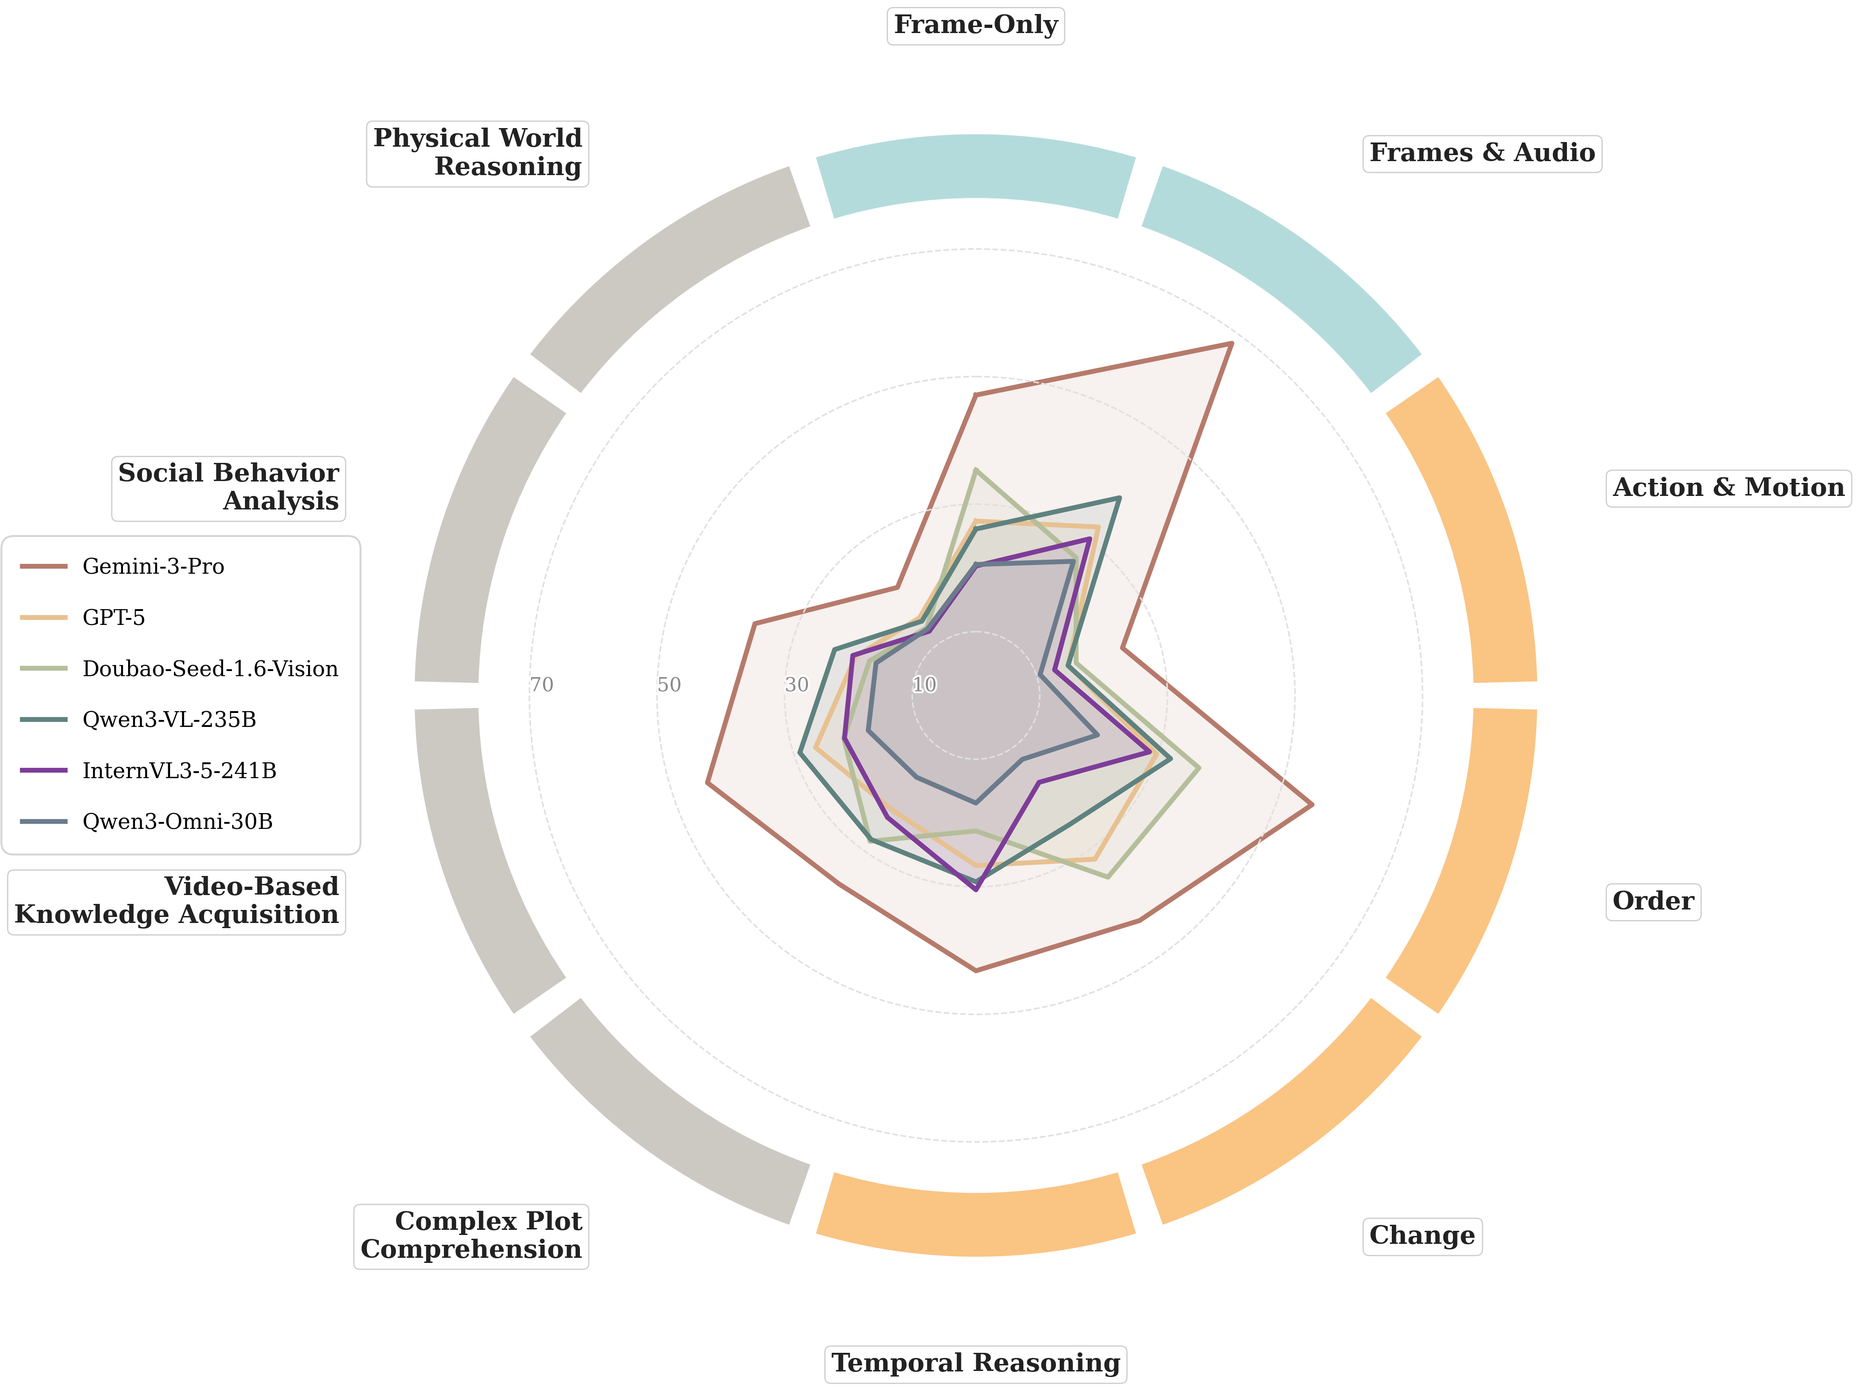
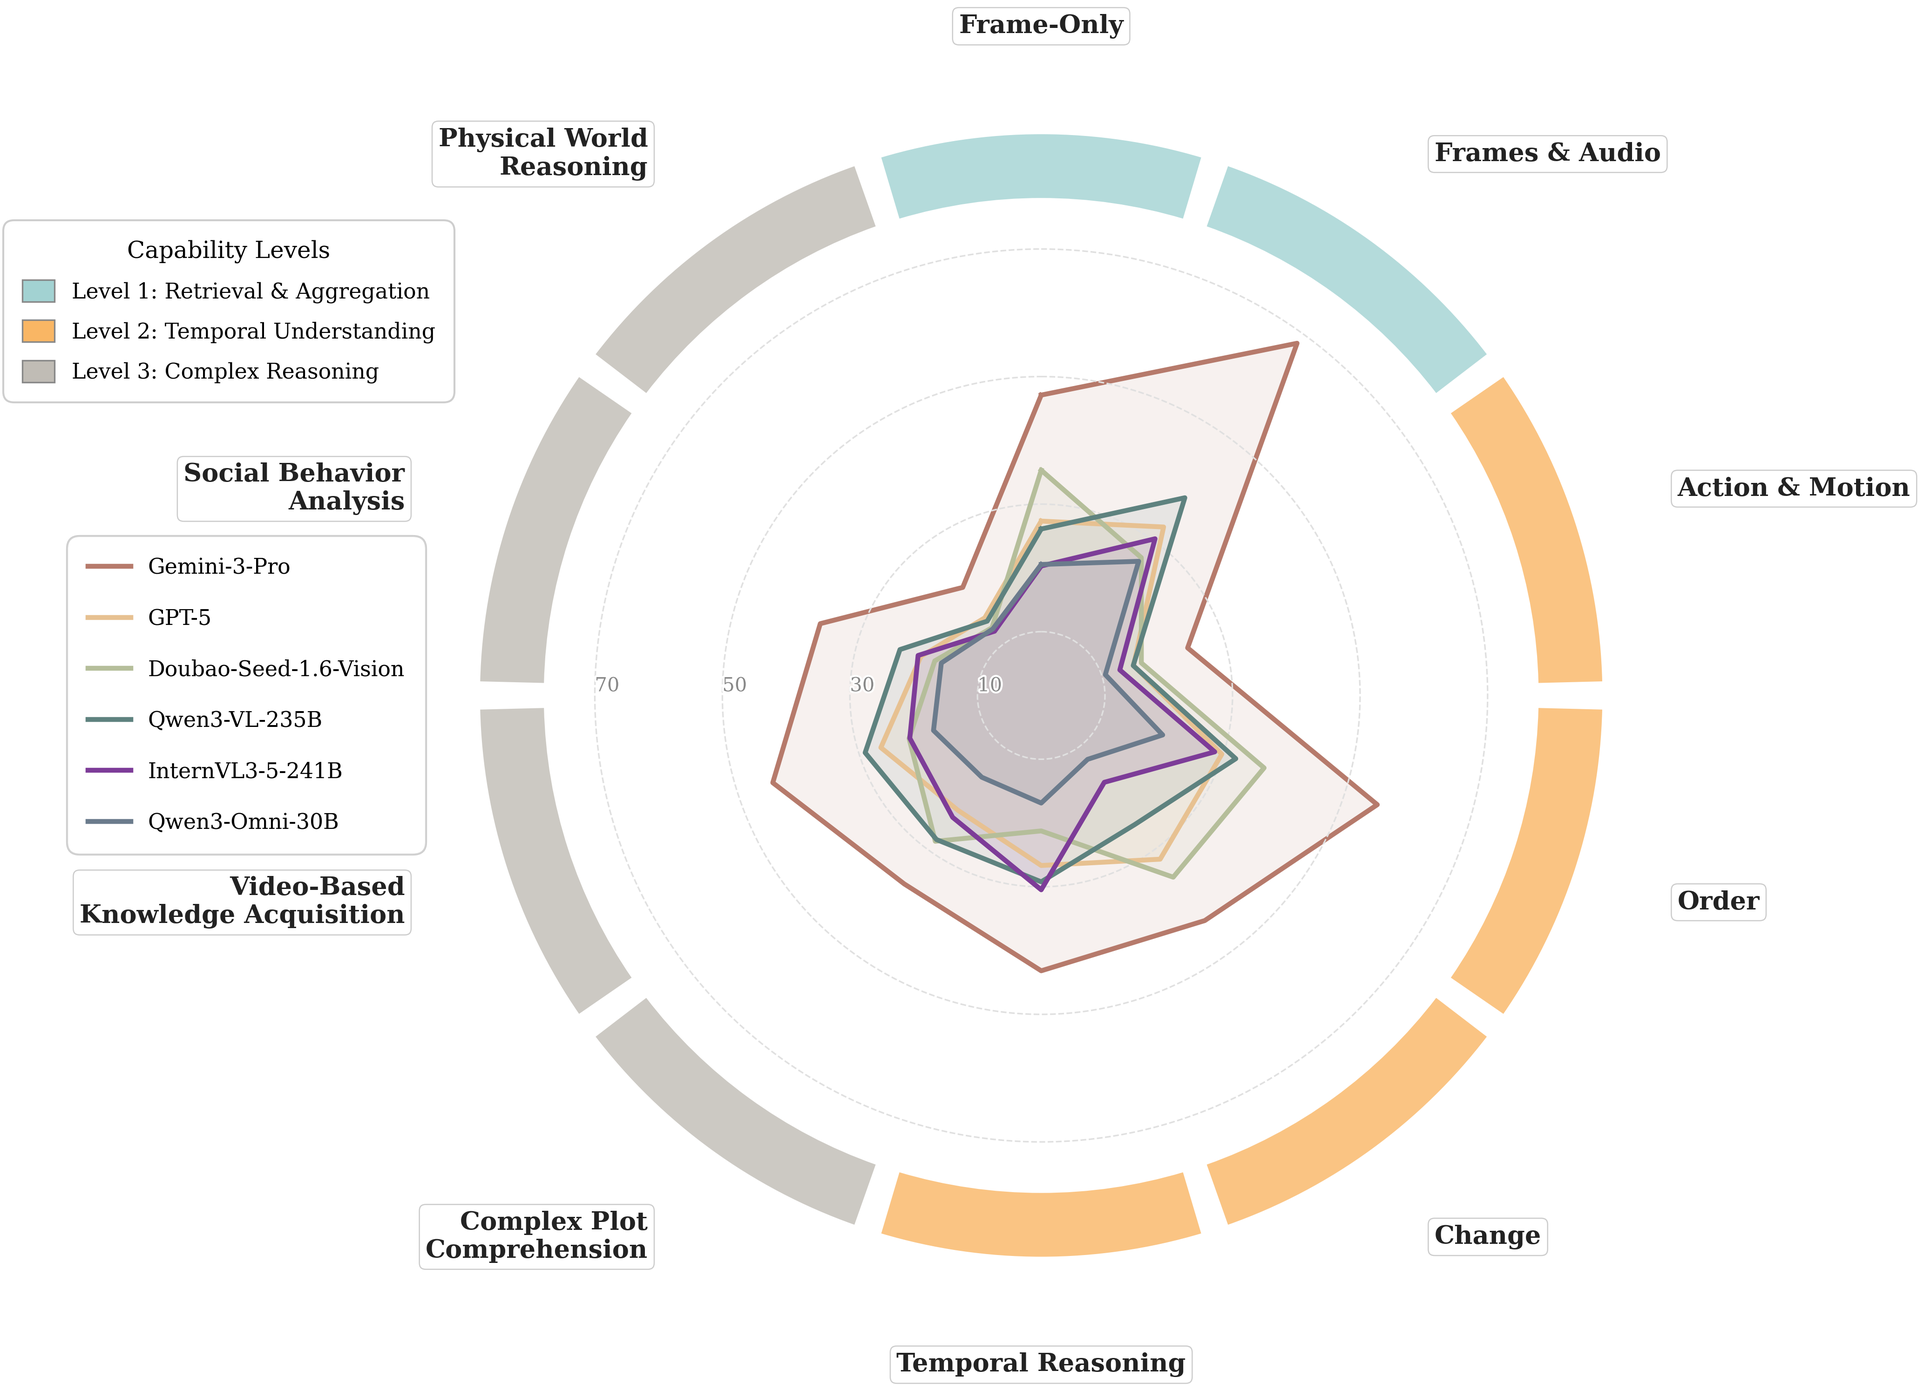
exp 3

diff --git a/index.html b/index.html
@@ -3920,7 +3920,7 @@
                     <strong>（1）全维度的能力融合是突破视频理解性能天花板的关键。</strong> 在 VideoMME v2 这类需要处理极长视频序列、复杂时空跨度以及细粒度多模态信息的评测中，模型的最终得分与其能力图谱的完整度呈现出高度的正相关。从图表中可以清晰地观察到，集齐全模态（Omni-modal）、长文本（Long-Context）与复杂思考（Thinking）三大核心能力的模型占据了绝对的统治地位。其中，Gemini-3-Pro 以 42.6 分的断层优势登顶，同系模型 Gemini-3-Flash 也紧随其后达到 39.8 分。此外，在 Qwen3-Omni 系列的对比中这一趋势同样显著：Qwen3-Omni-30B-A3B-Think（19.9分）明显优于缺少该能力的 Instruct 版本（17.3分）。这表明，面对高难度的动态视频基准，单一维度的垂直优化已触及瓶颈，构建“感知-记忆-推理”三位一体的复合能力架构，是实现分数阶跃的核心路径。
                 </p>
                 <p data-lang-en style="margin-top: 0.75rem;">
-                    <strong>(2) Our benchmark remains perception-driven; thinking is not universally helpful and RL may lean toward reinforcing text-side capabilities.</strong> Some models exhibit <em>Thinking Regression</em> even with subtitles: <strong>Qwen3-VL-235B</strong> regresses −4.5 (L1), −1.2 (L2), −2.5 (L3), <strong>−2.6 overall</strong>; <strong>Kimi-VL-16B</strong> regresses −2.7, −1.5, −5.1 by level and <strong>−3.2 overall</strong>. So on our bench, thinking has limited or negative effect for part of the models. Moreover, <strong>thinking + subtitle is strong, but without subtitle thinking is much weaker</strong>: e.g. Qwen3-VL-8B has +2.4 overall with subtitle but <strong>−0.2 overall without subtitle</strong>; MiMo-VL-7B drops from +4.3 (w. sub) to <strong>+1.9 (wo. sub)</strong>, and in Level 2 from +5.8 to +1.9. This suggests that in the setting of video understanding, current models' “thinking” capability remains more oriented toward text reasoning and has difficulty directly improving visual understanding.
+                    <strong>(2) Our benchmark remains perception-driven; thinking is not universally helpful and RL may lean toward reinforcing text-side capabilities.</strong> Some models exhibit <em>Thinking Regression</em> even with subtitles: <strong>Qwen3-VL-235B</strong> regresses −4.5 (L1), −1.2 (L2), −2.5 (L3), <strong>−2.6 overall</strong>; <strong>Kimi-VL-16B</strong> regresses −2.7, −1.5, −5.1 by level and <strong>−3.2 overall</strong>. So on our bench, thinking has limited or negative effect for part of the models. Moreover, <strong>thinking + subtitle is strong, but without subtitle thinking is much weaker</strong>: e.g. Qwen3-VL-8B has +2.4 overall with subtitle but <strong>−0.2 overall without subtitle</strong>; MiMo-VL-7B drops from +4.3 (w. sub) to <strong>+1.9 (wo. sub)</strong>, and in Level 2 from +5.8 to +1.9. This suggests that in the setting of video understanding, current models' “thinking” capability remains more oriented toward text reasoning and has difficulty directly improving visual understanding and may even be harmful.
                 </p>
                 <p data-lang-zh style="margin-top: 0.75rem;">
                     <strong>（2）参数规模的扩张在一定程度上能弥补核心能力的缺失</strong> 尽管全能力融合是面向全面视频理解的最优解，但从图中的结果依然可以看出，庞大的参数量依然是模型能力的基础，甚至能够跨越能力维度的代差。以图中的Qwen3-VL-235B-Instruct为例，虽然并未叠加“思考”或“全模态”能力，但凭借 235B 的超大参数规模，它依然稳居开源梯队榜首。它的得分甚至大幅领先于具备完整能力的 Qwen3-Omni-30B-A3B-Think。这种现象说明，当模型容量足够庞大时，其内部涌现的庞大知识储备和强大的模式匹配能力，能够在很大程度上对冲由于缺乏特定能力所带来的劣势。
@@ -3949,16 +3949,16 @@
                     <figcaption data-lang-zh>Figure 6: Thinking 效应 — 各层级与整体得分（有/无字幕）：Qwen3-VL-8B、Qwen3-VL-235B、Kimi-VL-16B、MiMo-VL-7B</figcaption>
                 </figure>
                 <p data-lang-en style="margin-top: 1rem;">
-                    <strong>(1) Text modality has a significant complementary effect on visual reasoning.</strong> Effective reasoning mechanisms can substantially improve model performance, but this improvement depends heavily on textual information. Under the "with subtitle" setting, models with stronger reasoning ability show notable gains. For example, <strong>MiMo-VL-7B</strong> achieves +5.1, +5.8, and +3.0 at Level 1–3 respectively, with an overall gain of <strong>+4.3</strong>; <strong>Qwen3-VL-8B</strong> also shows steady improvement (overall <strong>+2.4</strong>). These results indicate that for models with effective reasoning, the semantic information provided by subtitles compensates for the limitations of pure visual perception, and the synergy of "vision + text" enables the chain-of-thought process to yield more accurate predictions.
+                    <strong>(1) Text modality can play an auxiliary role in VL model reasoning.</strong> Effective reasoning mechanisms can substantially improve model performance under the right conditions. Under the with-subtitle setting, models with stronger reasoning ability show notable gains. For example, MiMo-VL-7B achieves gains of about 5.1, 5.8, and 3.0 points at Level 1–3 respectively, with an overall gain of about 4.3 points; Qwen3-VL-8B also shows steady improvement, with an overall gain of about 2.4 points.
                 </p>
                 <p data-lang-zh style="margin-top: 1rem;">
-                    <strong>（1）文本模态对视觉推理具有显著的互补效应。</strong> 有效的推理机制能显著增强模型表现，但这在很大程度上依赖于文本信息的辅助。在「有字幕」设置下，推理能力较强的模型表现出显著的性能提升。例如，<strong>MiMo-VL-7B</strong> 在 Level 1 至 Level 3 的各层级中分别取得了 +5.1、+5.8 和 +3.0 的提升，整体增益达 <strong>+4.3</strong>；<strong>Qwen3-VL-8B</strong> 亦表现出稳健的增长。这一结果表明，对于具备有效推理能力的模型，字幕提供的语义信息有效弥补了纯视觉感知的不足，「视觉+文本」的协同作用使思维链（Chain-of-Thought）过程能够产生更准确的预测。
+                    <strong>（1）文本模态对 VL 模型的推理具有辅助作用。</strong> 有效的推理机制在适宜条件下能显著增强模型表现。在「有字幕」设置下，推理能力较强的模型表现出显著的性能提升。例如，MiMo-VL-7B 在 Level 1 至 Level 3 各层级分别有约 5.1、5.8、3.0 分的提升，整体增益约 4.3 分；Qwen3-VL-8B 亦表现出稳健提升，整体增益约 2.4 分。
                 </p>
                 <p data-lang-en style="margin-top: 0.75rem;">
-                    <strong>(2) Our benchmark remains perception-driven; thinking is not universally helpful and RL may lean toward reinforcing text-side capabilities.</strong> Some models exhibit <em>Thinking Regression</em> even with subtitles: <strong>Qwen3-VL-235B</strong> regresses −4.5 (L1), −1.2 (L2), −2.5 (L3), <strong>−2.6 overall</strong>; <strong>Kimi-VL-16B</strong> regresses −2.7, −1.5, −5.1 by level and <strong>−3.2 overall</strong>. So on our bench, thinking has limited or negative effect for part of the models. Moreover, <strong>thinking + subtitle is strong, but without subtitle thinking is much weaker</strong>: e.g. Qwen3-VL-8B has +2.4 overall with subtitle but <strong>−0.2 overall without subtitle</strong>; MiMo-VL-7B drops from +4.3 (w. sub) to <strong>+1.9 (wo. sub)</strong>, and in Level 2 from +5.8 to +1.9. This suggests that in the setting of video understanding, current models' “thinking” capability remains more oriented toward text reasoning and has difficulty directly improving visual understanding.
+                    <strong>(2) Current thinking models may be more biased toward text-side capability reinforcement.</strong> In multimodal video understanding, some models show limited or even regressive thinking effects even with subtitles: Qwen3-VL-235B has an overall regression of about 2.6 points; Kimi-VL-16B has an overall regression of about 3.2 points. Meanwhile, for some models thinking yields clear gains with subtitle, but without subtitle the effect weakens or turns negative: for example, Qwen3-VL-8B has an overall gain of about 2.4 points with subtitle but an overall drop of about 0.2 points without subtitle; MiMo-VL-7B drops from an overall gain of about 4.3 points with subtitle to a gain of about 1.9 points without, and at Level 2 from a gain of about 5.8 points to about 1.9 points. This suggests that in the setting of video understanding, current models' “thinking” capability remains more oriented toward text reasoning and has difficulty directly improving visual understanding and may even be harmful.
                 </p>
                 <p data-lang-zh style="margin-top: 0.75rem;">
-                    <strong>（2）本 benchmark 仍以感知为主，thinking 并非对所有模型都有益，且 RL 可能更偏文本能力强化。</strong> 部分模型即便有字幕也出现 <em>Thinking 回退</em>：<strong>Qwen3-VL-235B</strong> 在 L1/L2/L3 分别为 −4.5、−1.2、−2.5，<strong>整体 −2.6</strong>；<strong>Kimi-VL-16B</strong> 各层级 −2.7、−1.5、−5.1，<strong>整体 −3.2</strong>。可见在本评测中，thinking 对部分模型作用有限甚至为负。同时，<strong>thinking + 字幕</strong> 效果很强，<strong>但去掉字幕后 thinking 明显变弱</strong>：例如 Qwen3-VL-8B 有字幕时整体 +2.4，无字幕时整体 <strong>−0.2</strong>；MiMo-VL-7B 从有字幕的 +4.3 降至无字幕的 <strong>+1.9</strong>，Level 2 从 +5.8 降至 +1.9。这说明在视频理解的设定下，当前模型的「thinking」能力仍更倾向于文本推理，难以直接提升视觉理解能力。
+                    <strong>（2）现有 thinking 模型可能更偏文本能力强化。</strong> 在多模态视频理解场景下，部分模型即使在有字幕场景下 thinking 效果也有限甚至出现回退：Qwen3-VL-235B 整体回退约 2.6 分；Kimi-VL-16B 整体回退约 3.2 分。同时，部分模型在有字幕时 thinking 能带来明显提升，但去掉字幕后效果明显变弱或转为负值：例如 Qwen3-VL-8B 有字幕时整体提升约 2.4 分，无字幕时整体下降约 0.2 分；MiMo-VL-7B 从有字幕时整体提升约 4.3 分降至无字幕时约 1.9 分，Level 2 从提升约 5.8 分降至约 1.9 分。这说明在视频理解的设定下，当前模型的「thinking」能力仍更倾向于文本推理，难以直接提升视觉理解能力甚至有害。
                 </p>
             </div>
         </div>

diff --git a/figs/py/plt_radar_second_head.py b/figs/py/plt_radar_second_head.py
@@ -1,10 +1,11 @@
 """
-Radar chart: second_head_rating. 风格：浅灰底、衬线体、白底气泡标签、层级圆环.
+Radar chart: second_head_rating.
+优化重点：压缩标签与圆环间距，提升布局紧凑度。
 """
 import numpy as np
 import matplotlib.pyplot as plt
 import matplotlib.patheffects as path_effects
-from pathlib import Path
+import matplotlib.patches as mpatches
 
 # ----------------------------------------
 # 1. 数据准备
@@ -16,11 +17,8 @@ categories = [
     'Social Behavior\nAnalysis', 'Physical World\nReasoning'
 ]
 
-# 对应原图配色
 level_colors = ['#A2D2D2'] * 2 + ['#F9B664'] * 4 + ['#C0BCB5'] * 4
 
-# second_head_rating: Frame-Only, Frames & Audio, Action & Motion, Order, Change, Temporal Reasoning,
-# Complex Plot Comprehension, Video-Based Knowledge Acquisition, Social Behavior Analysis, Physical World Reasoning
 models = {
     'Gemini-3-Pro': [47.10, 68.26, 24.14, 55.41, 43.63, 43.17, 36.53, 44.26, 36.43, 20.94],
     'GPT-5': [27.34, 32.65, 15.22, 29.78, 31.73, 26.66, 22.24, 26.44, 19.83, 15.05],
@@ -39,84 +37,105 @@ angles += angles[:1]
 
 plt.rcParams['font.family'] = 'serif'
 
-# 原图背景：淡淡灰蓝/浅灰
-fig = plt.figure(figsize=(11, 11), facecolor='#D6DBDF')
+fig = plt.figure(figsize=(12, 10), facecolor='white')
 ax = fig.add_subplot(111, polar=True)
-ax.set_facecolor('#D6DBDF')
+ax.set_facecolor('none')
 
 ax.set_theta_offset(np.pi / 2)
 ax.set_theta_direction(-1)
 
 # ----------------------------------------
-# 3. 绘制层级圆环（圆角间隔）
+# 3. 绘制层级圆环
 # ----------------------------------------
-bar_width = (2 * np.pi / N) * 0.95
-ax.bar(angles[:-1], 15, width=bar_width, bottom=75,
-       color=level_colors, alpha=0.9, edgecolor='none', zorder=10)
+bar_width = (2 * np.pi / N) * 0.92
+ring_bottom = 78
+ax.bar(angles[:-1], 10, width=bar_width, bottom=ring_bottom,
+       color=level_colors, alpha=0.8, edgecolor='none', zorder=10)
 
 # ----------------------------------------
 # 4. 绘制模型数据
 # ----------------------------------------
-# 棕红、橙黄、草绿、深青、紫、蓝灰
 model_colors = ['#B67A6B', '#E7C191', '#B5BE9A', '#5E827F', '#7D3C98', '#6B7B8C']
 
 for i, (name, data) in enumerate(models.items()):
     data_closed = data + data[:1]
     color = model_colors[i % len(model_colors)]
-    ax.plot(angles, data_closed, color=color, linewidth=3, label=name, zorder=i + 1)
+    ax.plot(angles, data_closed, color=color, linewidth=2.5, label=name, zorder=i + 1)
     ax.fill(angles, data_closed, color=color, alpha=0.1)
 
 # ----------------------------------------
-# 5. 坐标轴与标签美化
+# 5. 坐标轴与紧凑标签
 # ----------------------------------------
-ax.set_ylim(0, 90)
+ax.set_ylim(0, 92)
 ax.set_yticks([10, 30, 50, 70])
 
-# 只画圈层内的网格线，不画径向线（圈层之外的线）
-ax.grid(True, axis='y', color='white', linestyle='--', linewidth=1, alpha=0.8, zorder=0)
+ax.grid(True, axis='y', color='#E0E0E0', linestyle='--', linewidth=0.8, alpha=1, zorder=0)
 ax.grid(False, axis='x')
 ax.spines['polar'].set_visible(False)
 
-# Y 轴数字
 ax.set_rlabel_position(270)
 for label in ax.get_yticklabels():
-    label.set_color('#555555')
-    label.set_fontsize(11)
-    label.set_fontweight('bold')
+    label.set_color('#888888')
+    label.set_fontsize(10)
     label.set_path_effects([path_effects.withStroke(linewidth=2, foreground='white')])
 
-# X 轴：白底圆角“气泡”标签
 ax.set_xticks(angles[:-1])
 ax.set_xticklabels(categories)
-ax.tick_params(pad=40)
+
+ax.tick_params(pad=32)
 
 for label, angle in zip(ax.get_xticklabels(), angles[:-1]):
-    label.set_bbox(dict(facecolor='white', edgecolor='none', boxstyle='round,pad=0.3', alpha=0.9))
-    label.set_color('#333333')
-    label.set_fontsize(12)
-    label.set_fontweight('medium')
-    if angle in (0, np.pi):
-        label.set_horizontalalignment('center')
-    elif 0 < angle < np.pi:
-        label.set_horizontalalignment('left')
-    else:
-        label.set_horizontalalignment('right')
+    label.set_fontsize(13)
+    label.set_fontweight('bold')
+    label.set_color('#222222')
+    label.set_bbox(dict(facecolor='white', edgecolor='#CCCCCC', linewidth=0.6,
+                        boxstyle='round,pad=0.25', alpha=1.0, zorder=15))
+
+    ha = 'left' if 0 < angle < np.pi else 'right'
+    if abs(angle) < 0.01 or abs(angle - np.pi) < 0.01:
+        ha = 'center'
+    label.set_horizontalalignment(ha)
 
 # ----------------------------------------
-# 6. 图例：放到图最下方，一行显示
+# 6. 图例布局微调 — 模型图例（左侧）
 # ----------------------------------------
-fig.subplots_adjust(bottom=0.15)
+fig.subplots_adjust(left=0.22, right=0.98, top=0.92, bottom=0.08)
+
 handles, labels = ax.get_legend_handles_labels()
-legend = fig.legend(handles, labels, loc='lower center', bbox_to_anchor=(0.5, 0.05),
-                   ncol=6, frameon=True, fontsize=11)
-legend.get_frame().set_facecolor('white')
-legend.get_frame().set_edgecolor('#CCCCCC')
-legend.get_frame().set_boxstyle('round,pad=0.5')
+legend_models = fig.legend(handles, labels, loc='center left', bbox_to_anchor=(0.02, 0.5),
+                           ncol=1, frameon=True, fontsize=11, labelspacing=1.4)
+legend_models.get_frame().set_boxstyle('round,pad=0.6')
 
-plt.tight_layout()
+# ----------------------------------------
+# 7. Level 图例（右上角）— 新增
+# ----------------------------------------
+level_patches = [
+    mpatches.Patch(facecolor='#A2D2D2', edgecolor='#888888', linewidth=0.8, label='Level 1: Retrieval & Aggregation'),
+    mpatches.Patch(facecolor='#F9B664', edgecolor='#888888', linewidth=0.8, label='Level 2: Temporal Understanding'),
+    mpatches.Patch(facecolor='#C0BCB5', edgecolor='#888888', linewidth=0.8, label='Level 3: Complex Reasoning'),
+]
 
-out_dir = Path(__file__).resolve().parent.parent
-out_path = out_dir / "radar_second_head.png"
-plt.savefig(out_path, dpi=300, bbox_inches='tight', facecolor='#D6DBDF', edgecolor='none')
-plt.close()
-print(f"Saved to {out_path}")
+legend_levels = fig.legend(
+    handles=level_patches,
+    loc='upper right',
+    bbox_to_anchor=(0.25, 0.84),
+    ncol=1,
+    frameon=True,
+    fontsize=11,
+    title='Capability Levels',
+    title_fontsize=12,
+    labelspacing=0.8,
+    handlelength=1.5,
+    handleheight=1.2,
+)
+legend_levels.get_frame().set_boxstyle('round,pad=0.5')
+legend_levels.get_frame().set_edgecolor('#CCCCCC')
+legend_levels.get_frame().set_facecolor('white')
+legend_levels.get_frame().set_alpha(0.95)
+
+# 需要手动把模型图例重新添加回去，因为 fig.legend 会覆盖
+fig.add_artist(legend_models)
+
+out_path = "radar_second_head.png"
+plt.savefig(out_path, dpi=300, bbox_inches='tight')
+plt.show()
